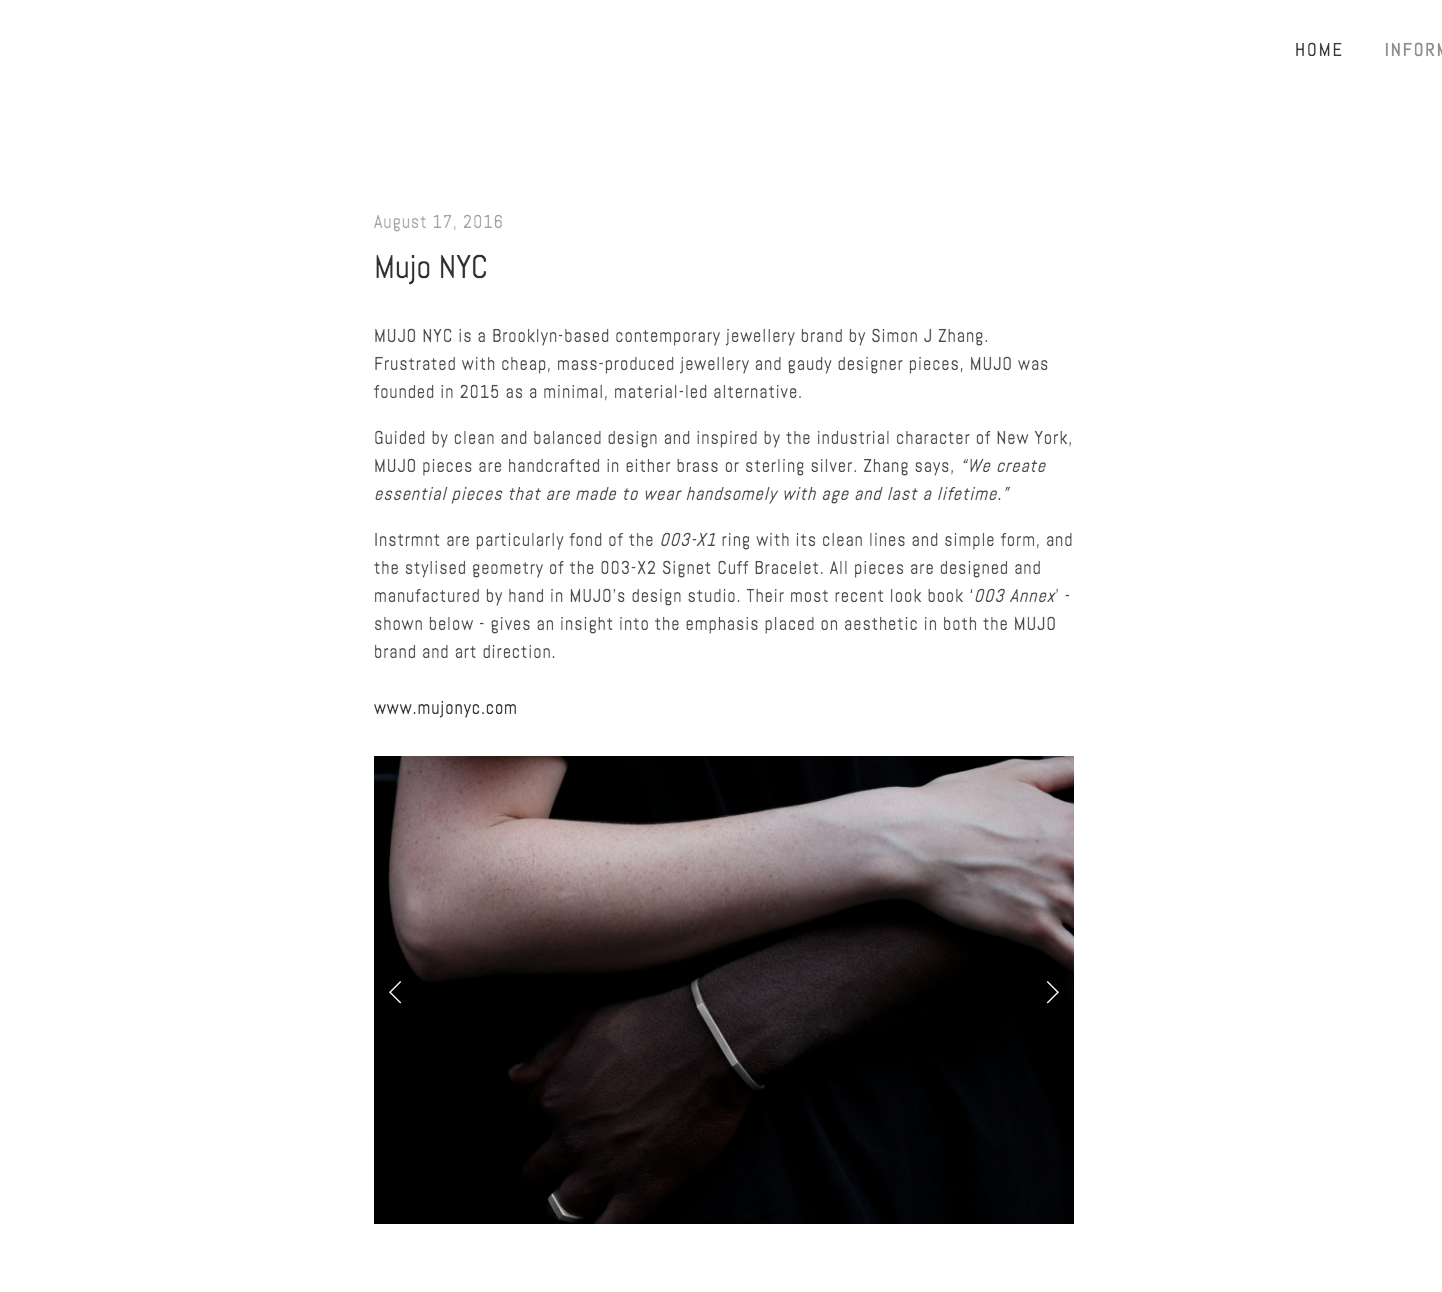
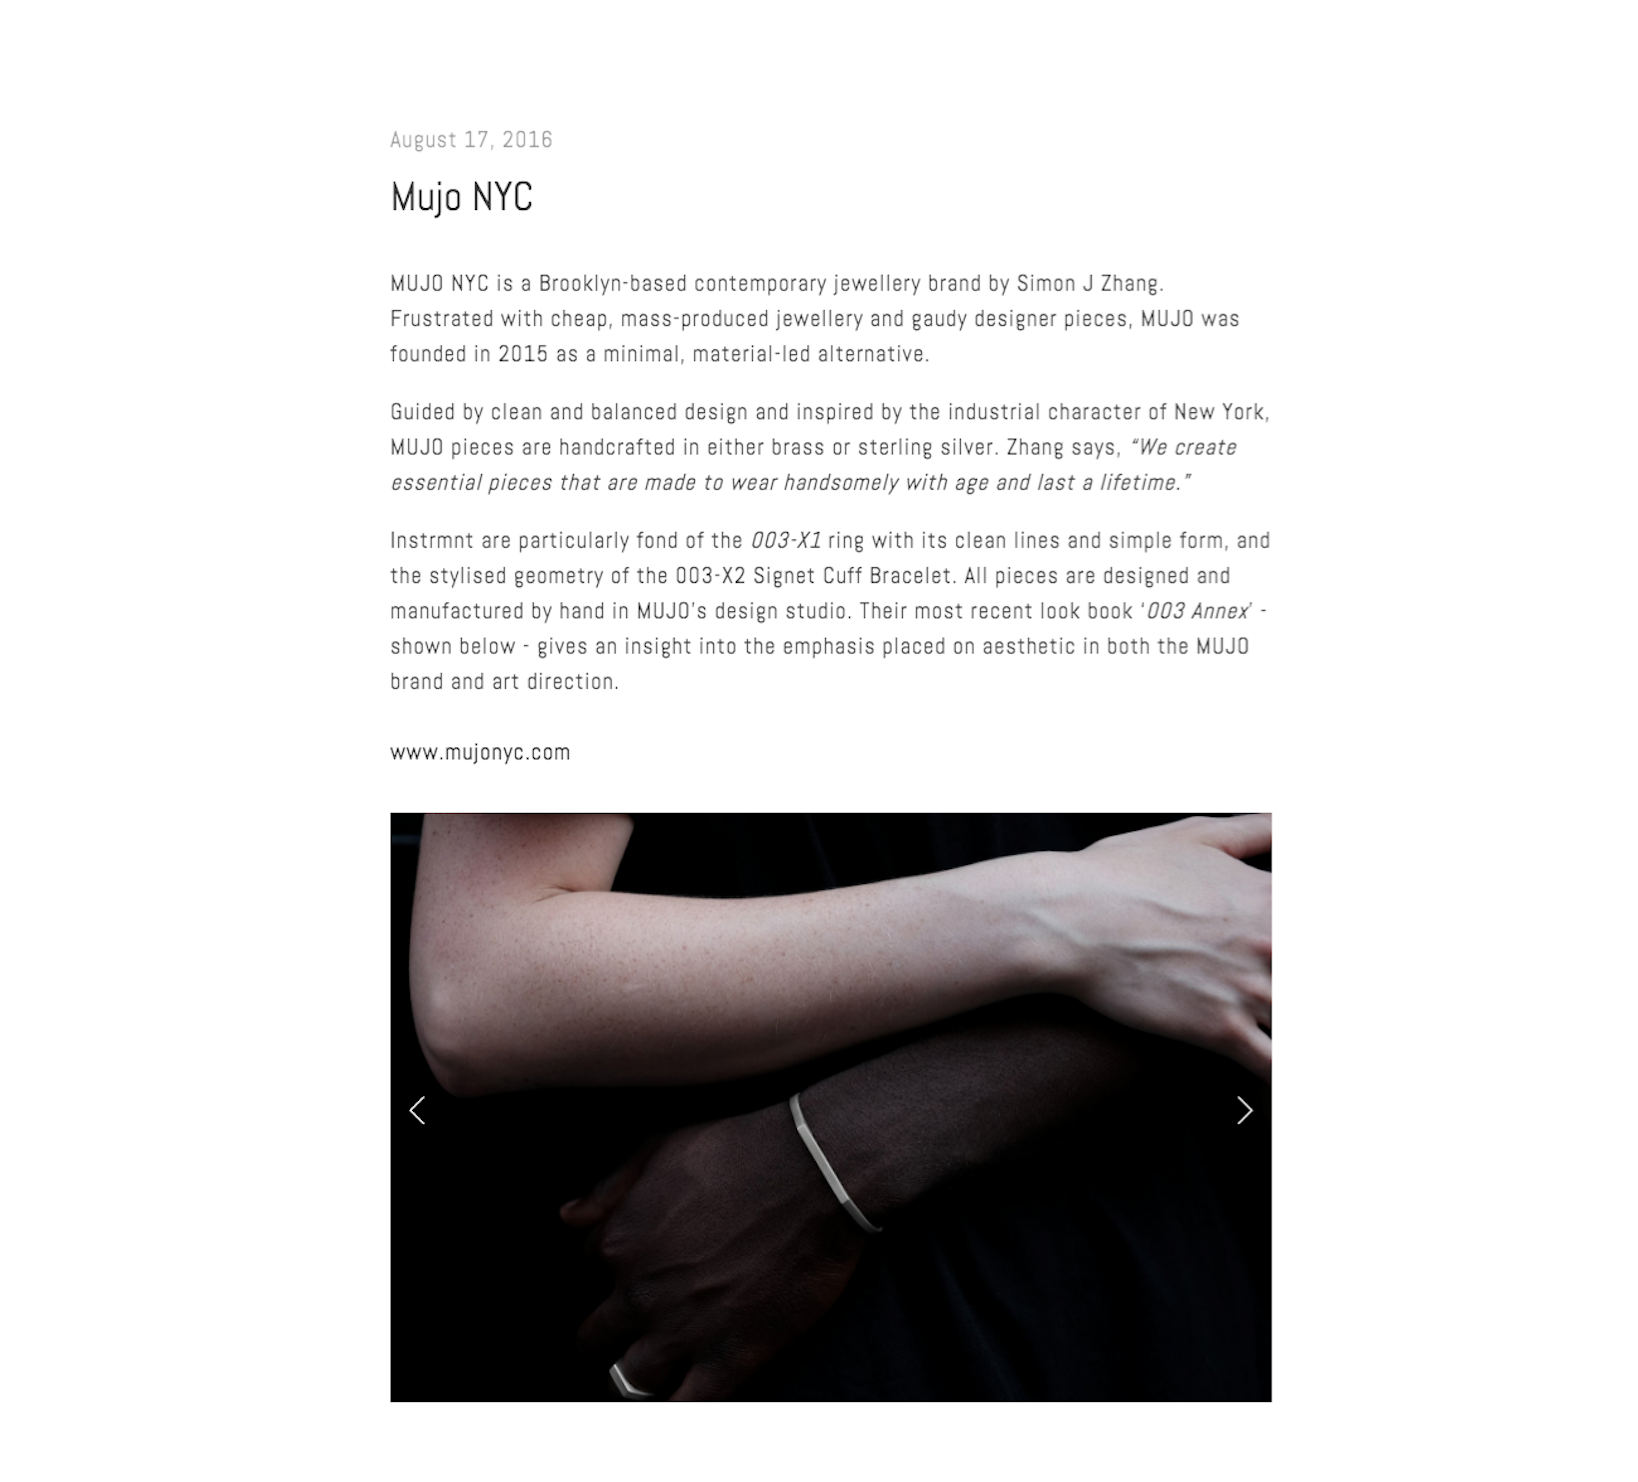
clean up press

diff --git a/app/assets/stylesheets/main.css b/app/assets/stylesheets/main.css
@@ -255,7 +255,7 @@ a:hover {
 .submenu {
   position: fixed;
   font-size: 10px;
-  right: 87px;
+  right: 140px;
   top: 35px;
   z-index: 2;
   display: none;
@@ -290,6 +290,7 @@ a:hover {
   position: absolute;
   width: 109px;
   height: 40px;
+  bottom: 110px;
   background: url('logos/TextLogoWB.png') no-repeat center;
   background-size: contain;
 }
@@ -528,7 +529,7 @@ div.active {
   top: 50px;
   margin: auto; 
   margin-top: 20px;
-  margin-bottom: 20px;
+  margin-bottom: 80px;
 }
 
 .press_title {

diff --git a/app/assets/stylesheets/mobile.css b/app/assets/stylesheets/mobile.css
@@ -42,7 +42,7 @@
   .submenu {
     position: fixed;
     font-size: 30px;
-    right: 190px;
+    right: 325px;
     top: 70px;
     z-index: 2;
     display: none;
@@ -78,6 +78,7 @@
     position: absolute;
     width: 300px;
     height: 120px;
+    bottom: 360px;
     background: url('logos/TextLogoWB.png') no-repeat center;
     background-size: contain;
   }
